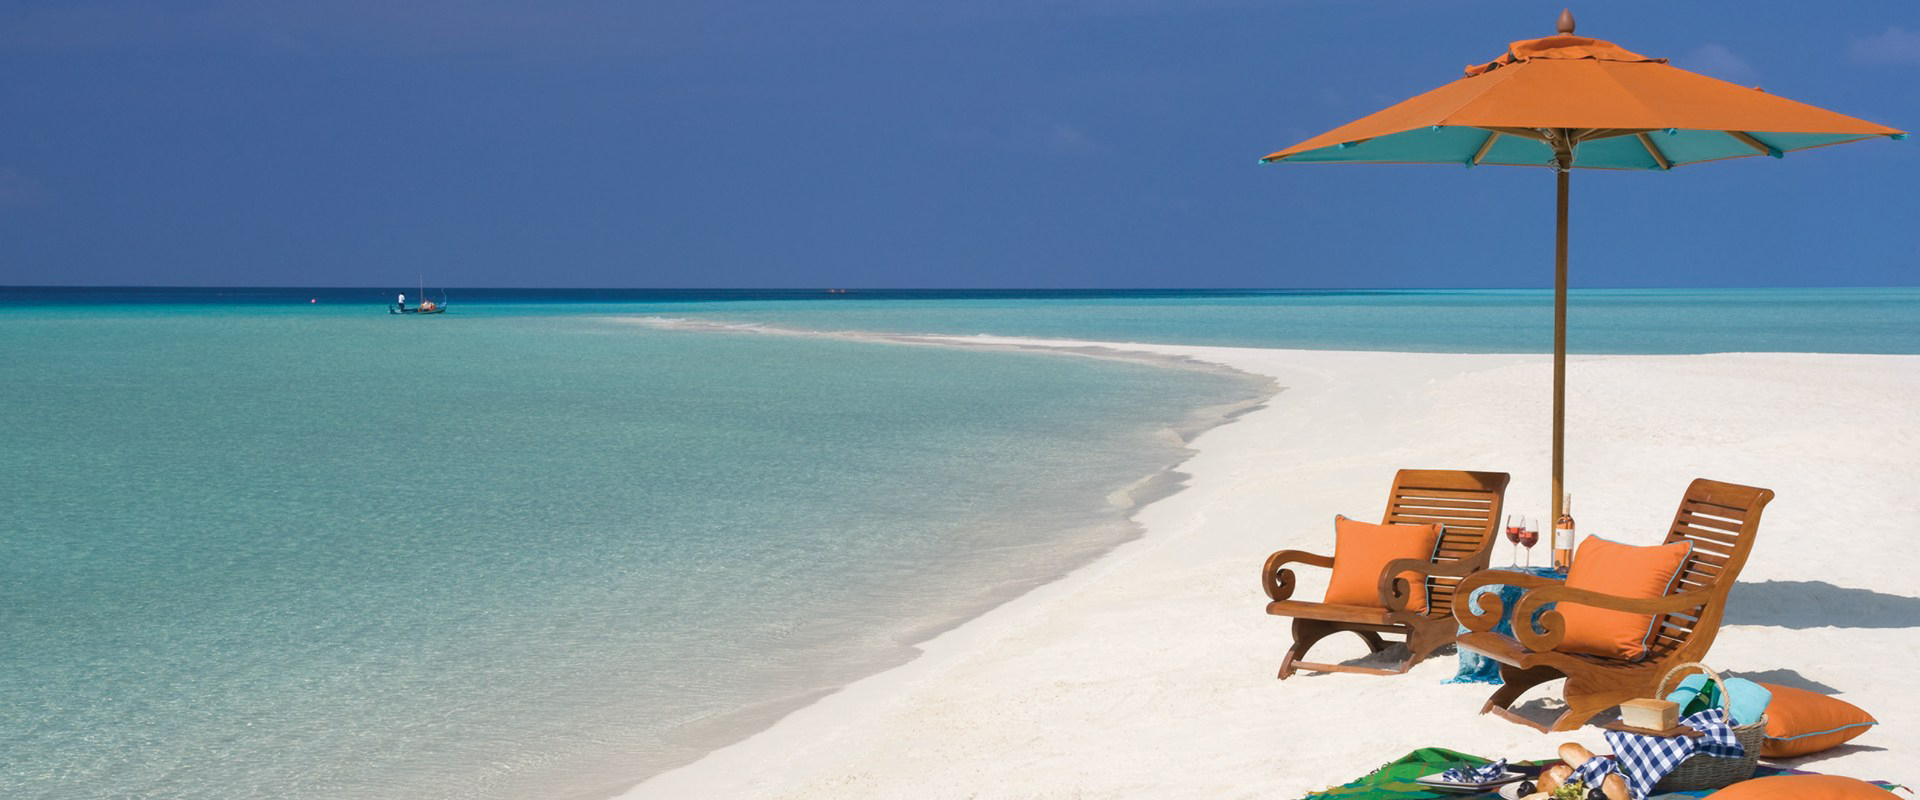
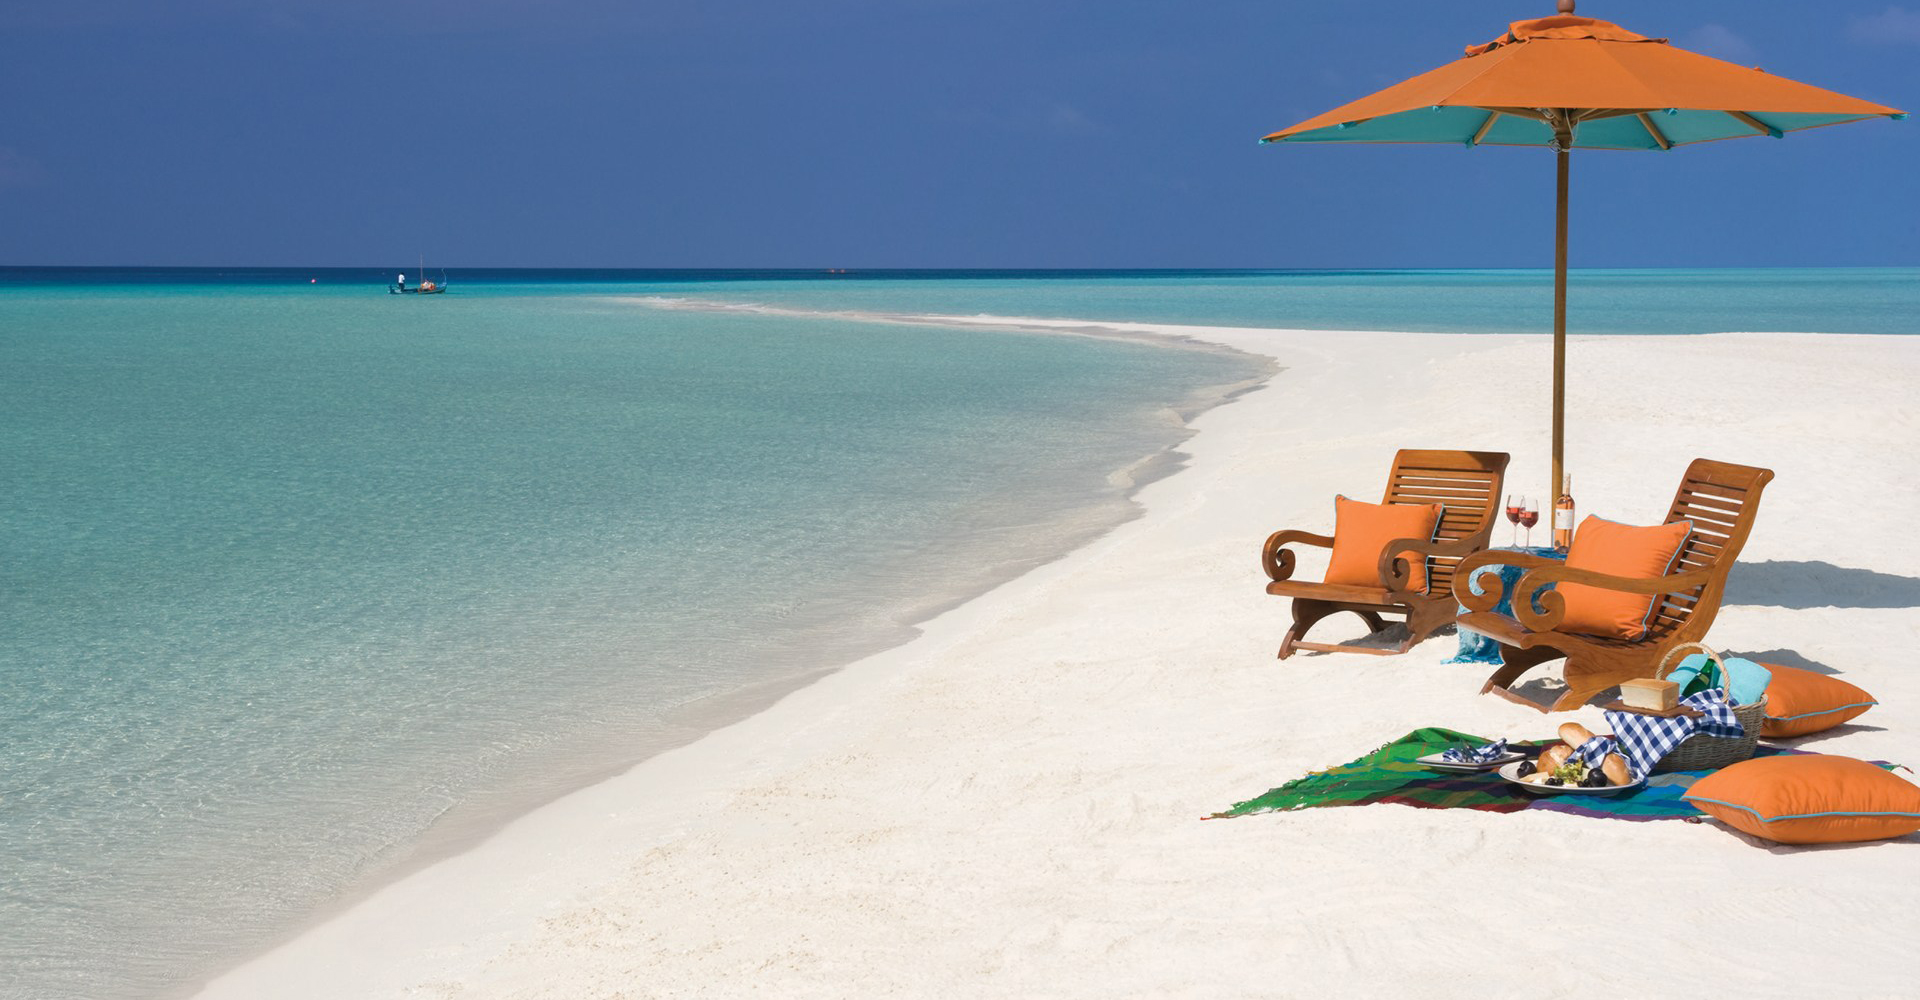
Titles and css.

diff --git a/arena/web_assets/css/style.css b/arena/web_assets/css/style.css
@@ -274,7 +274,7 @@ header {
   background-image: url("../img/services-bg1.jpg");
   background-position: right top;
   background-repeat: no-repeat;
-  background-size: auto 100%;
+  background-size: 100% auto;
   padding-bottom: 75px;
 }
 .service-divider {

diff --git a/arena/application/controllers/Home.php b/arena/application/controllers/Home.php
@@ -23,20 +23,20 @@ class Home extends CI_Controller {
 	}
 
 	public function contact(){
-		$data['title'] = 'Contact us || Ocean Arena';
+		$data['title'] = 'Contact - Ocean Arena Travels';
 		$this->load->view('web/header',$data);
 		$this->load->view('web/contact-us',$data);
 		$this->load->view('web/footer');
 	}
 	public function about(){
-		$data['title'] = 'About us || Ocean Arena';
+		$data['title'] = 'About - Ocean Arena Travels';
 		$this->load->view('web/header',$data);
 		$this->load->view('web/about-us',$data);
 		$this->load->view('web/footer');
 	}
 	
 	public function promotions(){
-		$data['title'] = 'Promotions || Ocean Arena';
+		$data['title'] = 'Promotions';
 		$this->load->view('web/header',$data);
 		$this->load->view('web/promotions',$data);
 		$this->load->view('web/footer');
@@ -45,7 +45,7 @@ class Home extends CI_Controller {
 		$data['id'] = $id;
 		$data['offer_title'] = $title;
 
-		$data['title'] = 'Promotions offers || Ocean Arena';
+		$data['title'] = 'Offers';
 		$this->load->view('web/header',$data);
 		$this->load->view('web/offers',$data);
 		$this->load->view('web/footer');
@@ -54,19 +54,19 @@ class Home extends CI_Controller {
 
 
 	public function maldives_about(){
-		$data['title'] = 'Maldives || Ocean Arena';
+		$data['title'] = 'About Maldives';
 		$this->load->view('web/header',$data);
 		$this->load->view('web/maldives_about',$data);
 		$this->load->view('web/footer');
 	}
 	public function maldives_resorts(){
-		$data['title'] = 'Maldives Resorts || Ocean Arena';
+		$data['title'] = 'Maldives Resorts';
 		$this->load->view('web/header',$data);
 		$this->load->view('web/maldives_resorts',$data);
 		$this->load->view('web/footer');
 	}
 	public function maldives_hotel(){
-		$data['title'] = 'Maldives Hotel || Ocean Arena';
+		$data['title'] = 'Maldives Hotels';
 		$this->load->view('web/header',$data);
 		$this->load->view('web/maldives_hotel',$data);
 		$this->load->view('web/footer');
@@ -74,19 +74,19 @@ class Home extends CI_Controller {
 
 
 	public function srilanka_about(){
-		$data['title'] = 'Sri Lanka || Ocean Arena';
+		$data['title'] = 'About Sri Lanka';
 		$this->load->view('web/header',$data);
 		$this->load->view('web/srilanka_about',$data);
 		$this->load->view('web/footer');
 	}
 	public function hotel_srilanka(){
-		$data['title'] = 'Sri Lanka Hotel || Ocean Arena';
+		$data['title'] = 'Sri Lanka Hotels';
 		$this->load->view('web/header',$data);
 		$this->load->view('web/hotel-srilanka',$data);
 		$this->load->view('web/footer');
 	}
 	public function srilanka_packages(){
-		$data['title'] = 'Sri Lanka Packages || Ocean Arena';
+		$data['title'] = 'Sri Lanka Packages';
 		$this->load->view('web/header',$data);
 		$this->load->view('web/srilanka_packages',$data);
 		$this->load->view('web/footer');
@@ -120,7 +120,7 @@ class Home extends CI_Controller {
                 $data['value'] = $this->db->get('details');
             }
 
-			$data['title'] = 'Details Information || Ocean Arena';
+			$data['title'] = 'Details';
 			$this->load->view('web/header',$data);
 			$this->load->view('web/details_information',$data);
 			$this->load->view('web/footer');
@@ -138,7 +138,7 @@ class Home extends CI_Controller {
 		$sent=mail($conTo,$subject,$description,$email);
 
         if(!$sent){
-            $msg = 'There are problems in sending mails  <br>';
+            $msg = 'There were problems in sending the mail. <br>';
         }else{
             $msg = 'Message sent successful.';
         }

diff --git a/arena/application/views/web/index.php b/arena/application/views/web/index.php
@@ -77,7 +77,7 @@
             <div class="container-fluid padding0">
                 <div class="col-md-6 col-sm-6 col-xs-12 padding0">
                     <div class="promotions-image wow fadeIn" data-wow-delay="200ms">
-                        <iframe width="100%" height="100%" src="https://www.youtube.com/embed/3saDwHisw8w?rel=0&amp;controls=0&amp;showinfo=0" frameborder="0" allowfullscreen></iframe>
+                        <iframe width="100%" height="100%" src="https://www.youtube.com/embed/nvDzLnxcW20?rel=0&amp;controls=0&amp;showinfo=0" frameborder="0" allowfullscreen></iframe>
                     </div>
                 </div>
                 <div class="col-md-6 col-sm-6 col-xs-12">

diff --git a/arena/application/views/web/contact-us.php b/arena/application/views/web/contact-us.php
@@ -8,7 +8,7 @@
 	            <img src="<?php echo base_url(); ?>web_assets/img/divider-2.png" class="img-responsive" alt="Image">
 	        </span>
             <p>
-                Give us a call or drop by anytime, we endeavour to answer all enquiries within 24 hours on business days. <br> We are open from 24/7 
+                Give us a call or drop by anytime, we endeavour to answer all enquiries within 24 hours on business days. <br> We are open from 24/7. 
             </p>
             <span class="span"></span>
             

diff --git a/arena/application/views/web/maldives_hotel.php b/arena/application/views/web/maldives_hotel.php
@@ -44,10 +44,6 @@
 							<span class="des">DURATION</span>
 							<span class="detail"><?php echo $data['duration']; ?></span>
 						</li>
-						<li>
-							<span class="des">AIRPORT</span>
-							<span class="detail"><?php echo $data['airport']; ?></span>
-						</li>
 					</ul>
 					<a href="<?php echo base_url() ?>home/details_information/2/1/<?php echo $data['id'].'/'.preg_replace('/[\s%_]/', '-', trim(strtolower($data['title']))) ?>" class="btn">MORE DETAILS</a>
 				</div>
